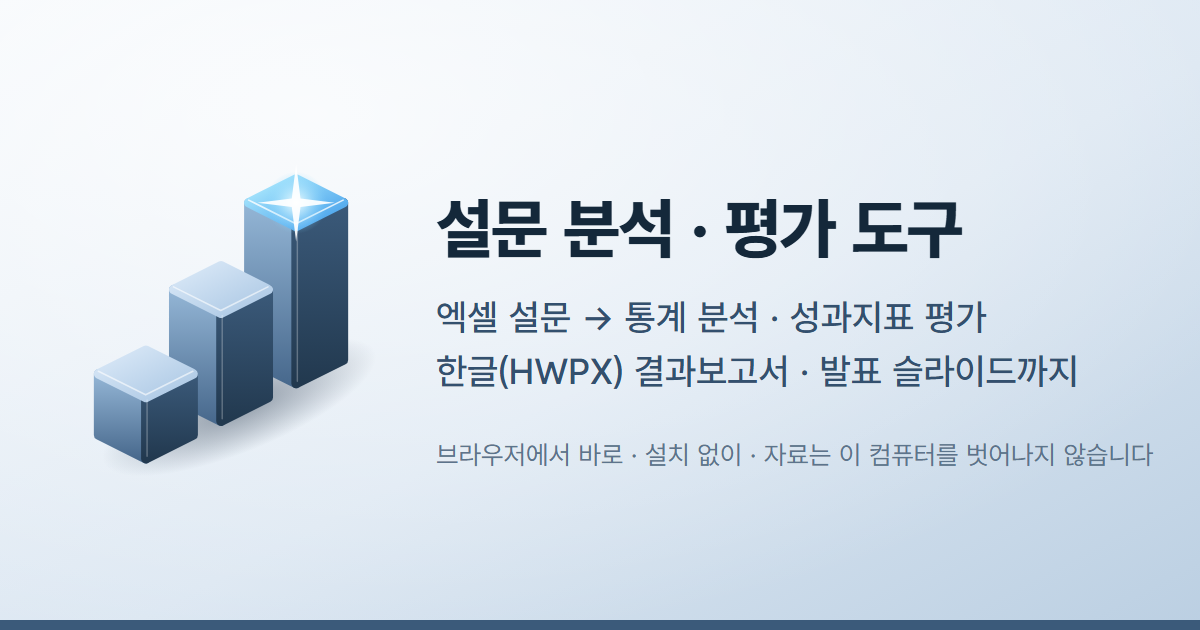
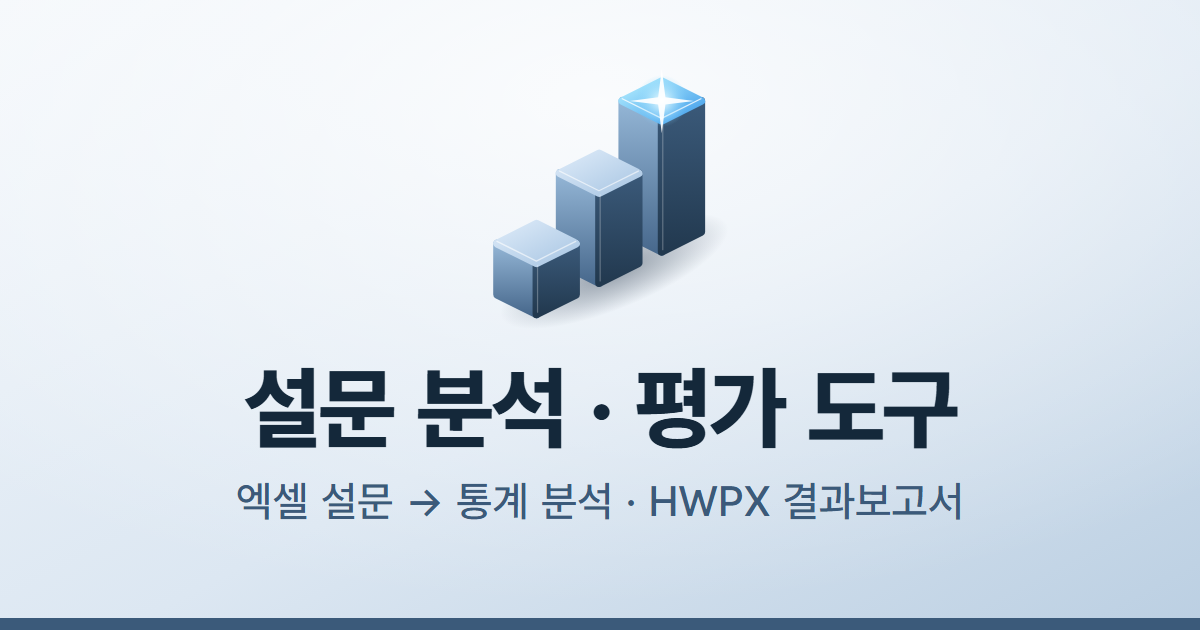
v5.37.2: 공유 미리보기 카드를 카톡 화면 크기에 맞게 다듬음
카톡 대화창에 뜬 모습을 실제 OG 값으로 재현해 보니 두 가지가 걸렸다.

1) 설명이 두 줄에서 잘림 — 카톡 카드는 폭이 250px 남짓이라 설명을 두 줄까지만
   보여준다. 59자짜리 문장이 "…발표 슬라이드를 브" 에서 끊겼다. og:description 을
   두 줄에 들어가는 길이로 줄였다(검색엔진용 name="description" 은 그대로 둠).

2) 썸네일 글자가 안 읽힘 — 1200px 카드가 250px 로 줄어 1/5 크기가 되는데,
   36px 부제 두 줄과 26px 안내줄은 사실상 보이지 않았다. 도안을 가운데로 모으고
   제목을 90px 로 키우고 부제는 한 줄만 남겼다. 가운데 정렬은 카드가 정사각형으로
   잘려 보이는 목록에서도 도안과 제목이 남게 하는 효과도 있다.

Changed region(s): [[0.0617, 0.1206, 0.9558, 0.8444], [0.0, 0.9651, 1.0, 0.9952]]

diff --git a/index.html b/index.html
@@ -22,7 +22,8 @@
   <meta property="og:type" content="website">
   <meta property="og:site_name" content="설문 분석 · 평가 도구">
   <meta property="og:title" content="설문 분석 · 평가 도구">
-  <meta property="og:description" content="설문 엑셀로 통계 분석, 청소년 사업 성과지표 달성 평가, 한글(HWPX) 보고서와 발표 슬라이드를 브라우저 안에서 만듭니다.">
+  <!-- 카톡 카드는 설명을 두 줄까지만 보여주고 나머지는 잘라낸다(폭 250px 남짓 · 한 줄에 20자 안팎) — 위 name="description"(검색엔진용)보다 짧게 둔다 -->
+  <meta property="og:description" content="엑셀 설문을 통계 분석하고 한글(HWPX) 결과보고서·발표자료까지 만듭니다">
   <meta property="og:url" content="https://sysmetrix.github.io/Survey/">
   <meta property="og:image" content="https://sysmetrix.github.io/Survey/icons/og-image.png">
   <meta property="og:image:type" content="image/png">
@@ -32,13 +33,13 @@
   <meta property="og:locale" content="ko_KR">
   <meta name="twitter:card" content="summary_large_image">
   <link rel="stylesheet" href="vendor/fonts/pretendard-gov/pretendard-gov-dynamic-subset.css">
-  <link rel="stylesheet" href="css/app.css?v=5.37.1">
-  <link rel="stylesheet" href="css/present.css?v=5.37.1">
+  <link rel="stylesheet" href="css/app.css?v=5.37.2">
+  <link rel="stylesheet" href="css/present.css?v=5.37.2">
   <script src="js/boot-check.js"></script>
   <script src="vendor/papaparse-5.4.1.min.js" defer></script>
   <script src="vendor/xlsx-0.20.3.full.min.js" defer></script>
   <script src="vendor/jszip-3.10.1.min.js" defer></script>
-  <script type="module" src="js/main.js?v=5.37.1"></script>
+  <script type="module" src="js/main.js?v=5.37.2"></script>
 </head>
 <body>
   <button class="skip no-print" data-act="skip">본문 바로가기</button>

diff --git a/js/admin/releases.js b/js/admin/releases.js
@@ -2,6 +2,15 @@
 // Add every release at the top and keep changes concrete and verifiable.
 export const RELEASES = [
   {
+    version: "5.37.2", date: "2026-09-22", title: "공유 미리보기 카드를 카톡 화면 크기에 맞게 다듬음",
+    groups: {
+      "공유": [
+        "카톡 카드는 설명을 두 줄까지만 보여주는데 문장이 길어 뒷부분이 잘리던 것을, 두 줄에 들어가는 길이로 줄임",
+        "썸네일 그림이 대화창에서 1/5 크기로 줄어 글자가 읽히지 않던 것을, 제목을 크게 하고 설명줄을 하나로 줄여 또렷하게 고침",
+      ],
+    },
+  },
+  {
     version: "5.37.1", date: "2026-09-22", title: "카카오톡 등에 주소를 올리면 미리보기 카드가 뜨도록 함",
     groups: {
       "공유": [

diff --git a/js/main.js b/js/main.js
@@ -31,7 +31,7 @@ import { startGuide, syncGuide, offerFirstRun } from "./ui/tutorial.js";
 import { getSession, installIdleWatch } from "./auth/session.js";
 import { initTelemetry, trackEvent, installAutoFlush } from "./telemetry/track.js";
 
-export const APP_VERSION = "5.37.1";
+export const APP_VERSION = "5.37.2";
 const VIEWS = { load, setup, business, dash, report, present, presentEdit, history, settings, updates, login, admin };
 let current = load, currentId = "";
 let versionTaps = 0, versionTapTimer = 0;

diff --git a/sw.js b/sw.js
@@ -3,8 +3,8 @@
 // 화면과의 약속: SKIP_WAITING(대기 중인 워커 활성화), GET_VERSION(MessagePort 로 {version, revision} 응답)
 // 아래 생성 블록은 tools/build-sw.mjs 가 만듭니다 — 직접 고치지 마세요(tests/static/pwa.test.js 가 최신 여부 검사)
 // <generated by tools/build-sw.mjs>
-const VERSION = "5.37.1";
-const REVISION = "db029c2ced123714";
+const VERSION = "5.37.2";
+const REVISION = "98a0f509a97e4615";
 const ASSETS = [
   "css/app.css",
   "css/present.css",

diff --git a/js/ui/history/version.js b/js/ui/history/version.js
@@ -1,2 +1,2 @@
 // 기록에 남길 앱 버전 (main.js 순환 참조 방지용)
-export const APP_VERSION_HISTORY = "5.37.1";
+export const APP_VERSION_HISTORY = "5.37.2";
